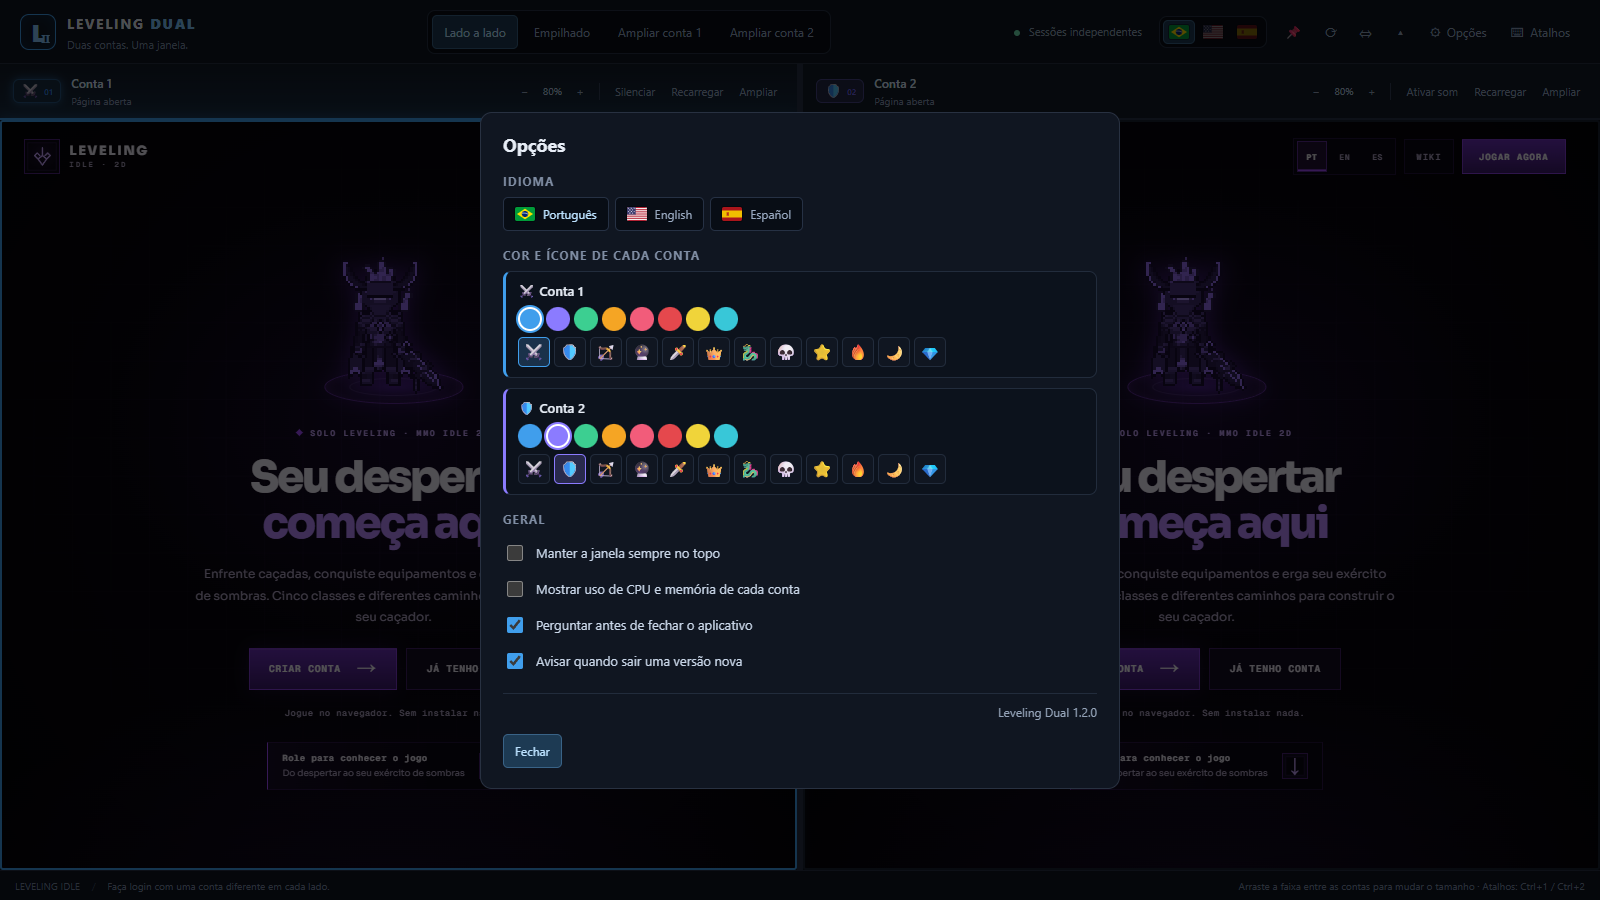
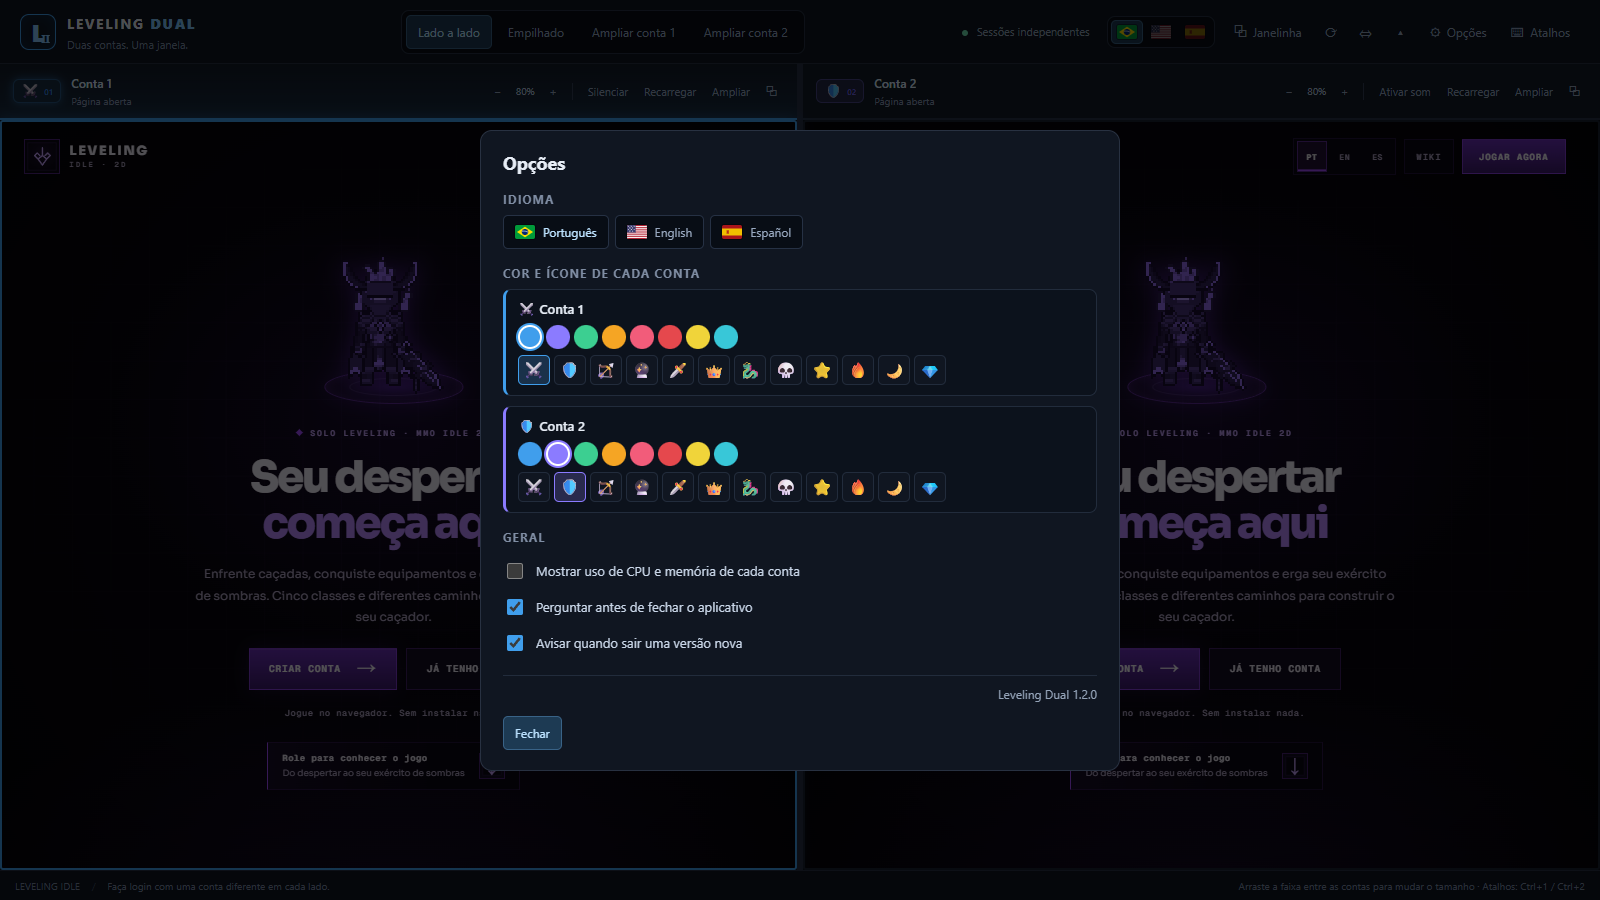
Add files via upload

diff --git a/README.md b/README.md
@@ -30,7 +30,7 @@
 | 🎯 **Conta ativa visível** | A borda colorida mostra qual conta recebe o teclado. |
 | 🎨 **Cor e ícone por conta** | Escolha uma cor e um ícone para cada conta e nunca mais confunda os personagens. |
 | 🌎 **Três idiomas** | Português, inglês e espanhol, trocando pelas bandeirinhas da barra. |
-| 📌 **Sempre no topo** | Mantém a janela por cima das outras para acompanhar enquanto faz outra coisa. |
+| ⧉ **Janelinha flutuante** | Leva uma conta para uma janela pequena por cima de tudo, para acompanhar enquanto usa outro programa. A outra conta continua rodando. |
 | ⟳ **Recarregar as duas** | Reabre o jogo nas duas contas de uma vez. |
 | 📊 **Uso de CPU e memória** | Mostra quanto cada conta está consumindo. Fica desligado até você ligar nas Opções. |
 | 🔔 **Aviso de versão nova** | Ao abrir, avisa quando sair uma versão nova aqui nas Releases. Não baixa nada sozinho. |
@@ -41,13 +41,21 @@
 > [!IMPORTANT]
 > O jogo permite **no máximo 2 contas por pessoa**, então o aplicativo abre só duas. Usar mais contas pode dar banimento.
 
+## ⧉ Janelinha flutuante
+
+<div align="center">
+<img src="docs/janelinha.png" alt="Janelinha flutuante com uma conta por cima das outras janelas" width="420">
+</div>
+
+O botão **Janelinha** (ou <kbd>Ctrl</kbd> + <kbd>P</kbd>) leva a conta ativa para uma janela pequena que fica por cima de tudo. A janela grande é minimizada e a outra conta continua rodando nela. Na faixa de cima: **⇄** troca a conta e **⤢** (ou <kbd>Esc</kbd>) volta para a janela grande.
+
 ## ⚙ Opções
 
 <div align="center">
 <img src="docs/opcoes.png" alt="Janela de opções: idioma, cor e ícone de cada conta e preferências gerais" width="760">
 </div>
 
-No botão **Opções** (ou clicando no ícone da conta) você escolhe o idioma, a cor e o ícone de cada conta e liga ou desliga: sempre no topo, uso de CPU e memória, pergunta antes de fechar e aviso de versão nova.
+No botão **Opções** (ou clicando no ícone da conta) você escolhe o idioma, a cor e o ícone de cada conta e liga ou desliga: uso de CPU e memória, pergunta antes de fechar e aviso de versão nova.
 
 ## 📥 Como usar
 
@@ -72,7 +80,7 @@ Quem já usava uma versão anterior continua com as mesmas contas logadas.
 | <kbd>Ctrl</kbd> + <kbd>Shift</kbd> + <kbd>R</kbd> | Recarrega as duas contas |
 | <kbd>Ctrl</kbd> + <kbd>M</kbd> | Liga ou desliga o som da conta ativa |
 | <kbd>Ctrl</kbd> + <kbd>+</kbd> / <kbd>−</kbd> / <kbd>0</kbd> | Zoom da conta ativa |
-| <kbd>Ctrl</kbd> + <kbd>T</kbd> | Sempre no topo |
+| <kbd>Ctrl</kbd> + <kbd>P</kbd> | Janelinha flutuante (<kbd>Esc</kbd> volta) |
 | <kbd>Ctrl</kbd> + <kbd>B</kbd> | Esconde ou mostra a barra |
 | <kbd>F11</kbd> | Tela cheia |
 
